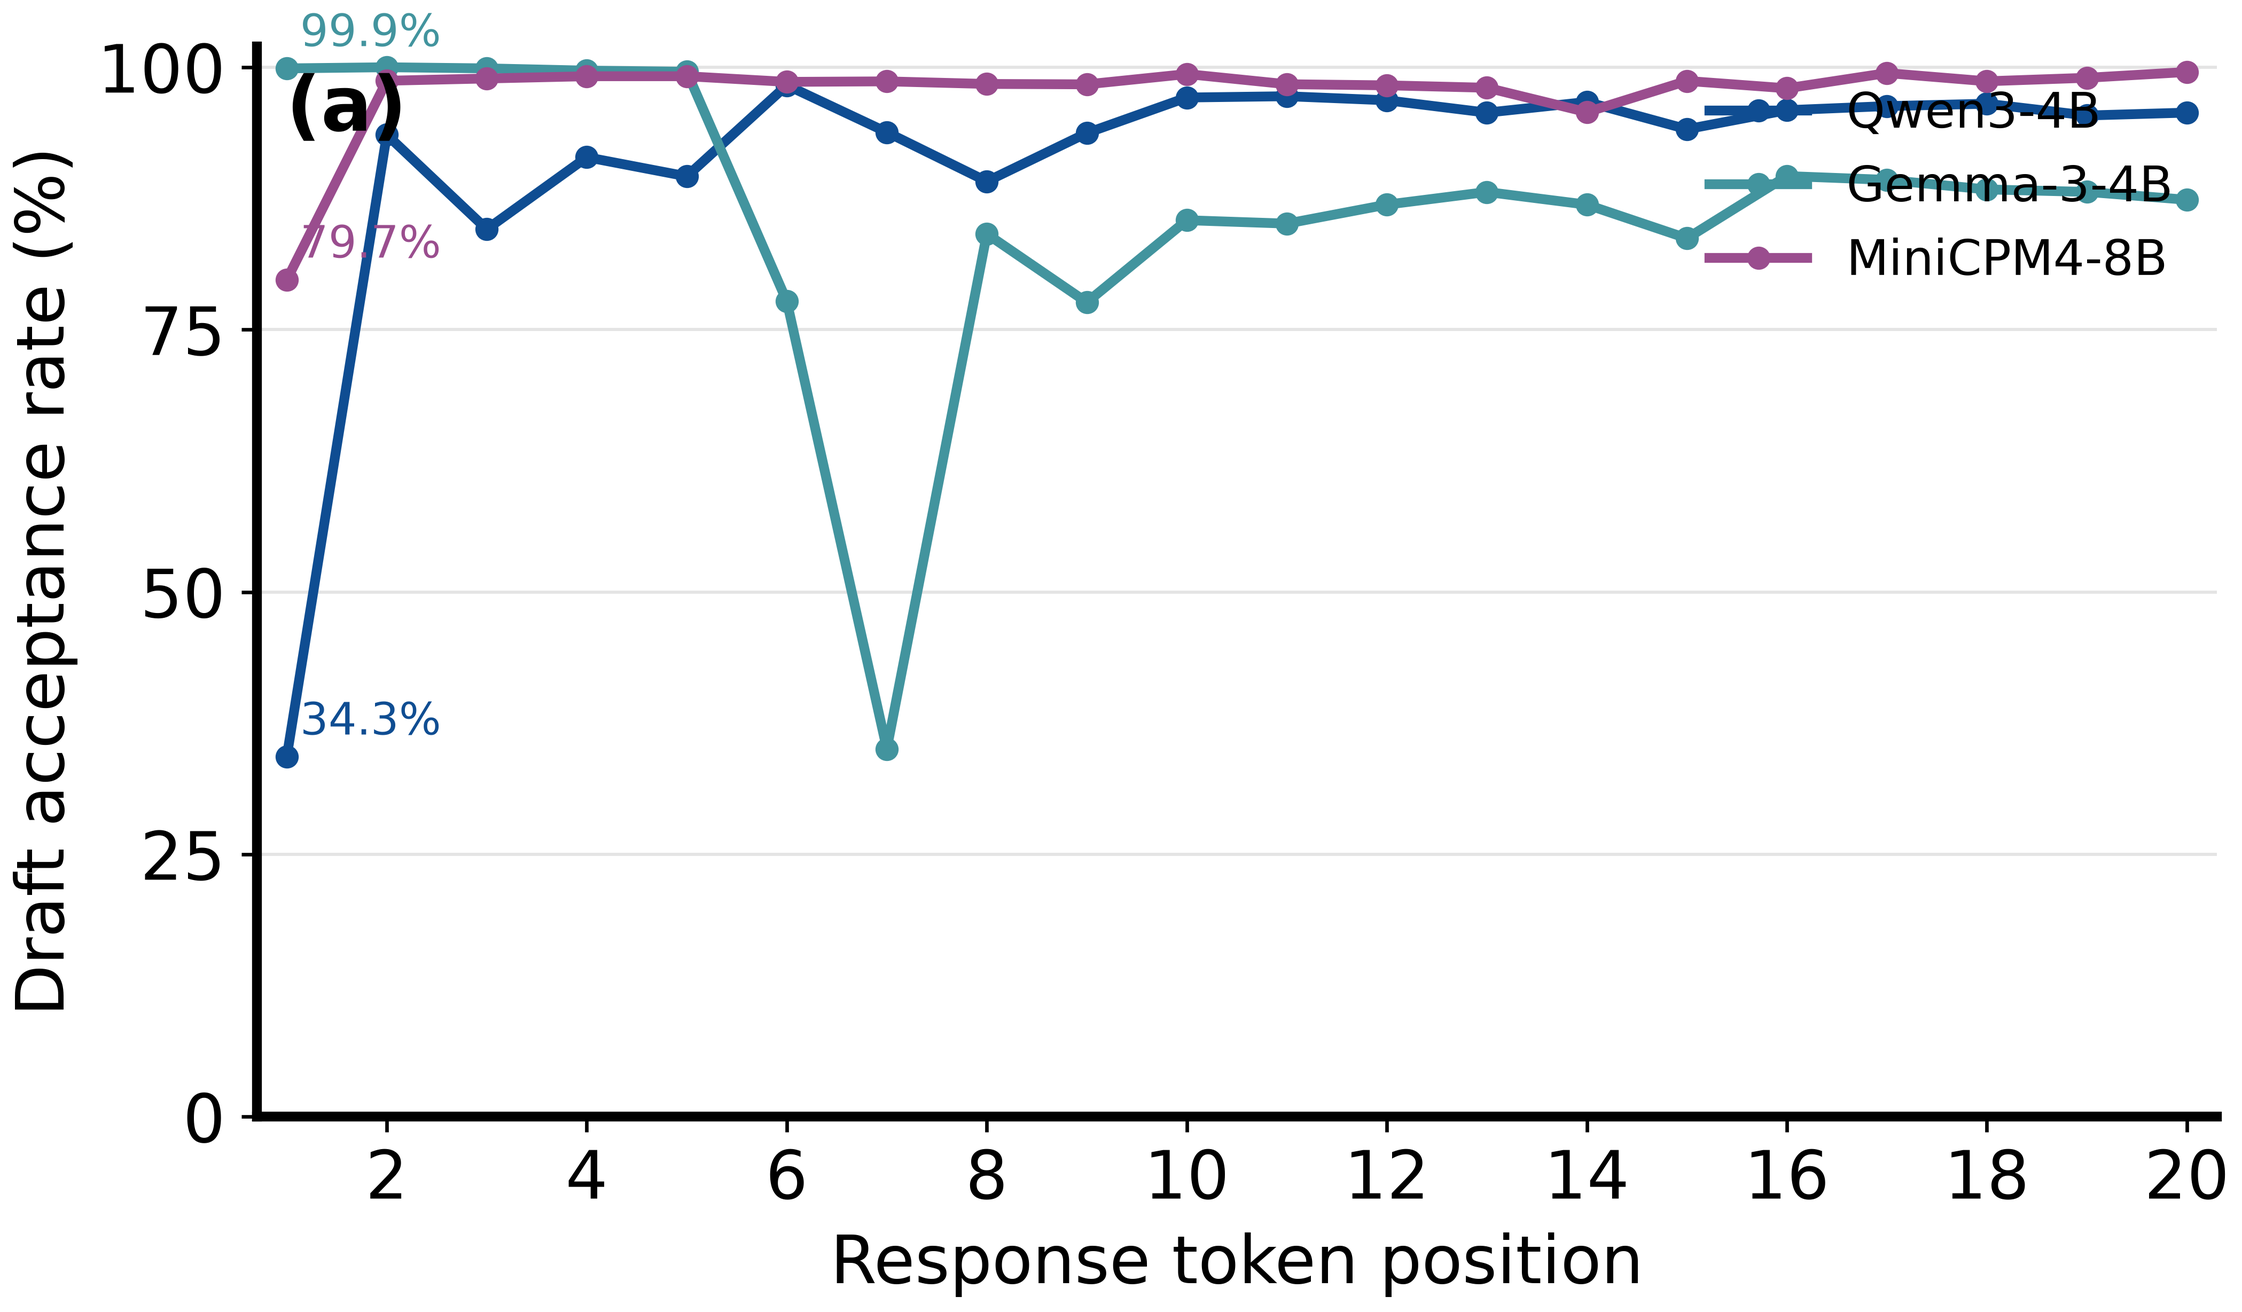
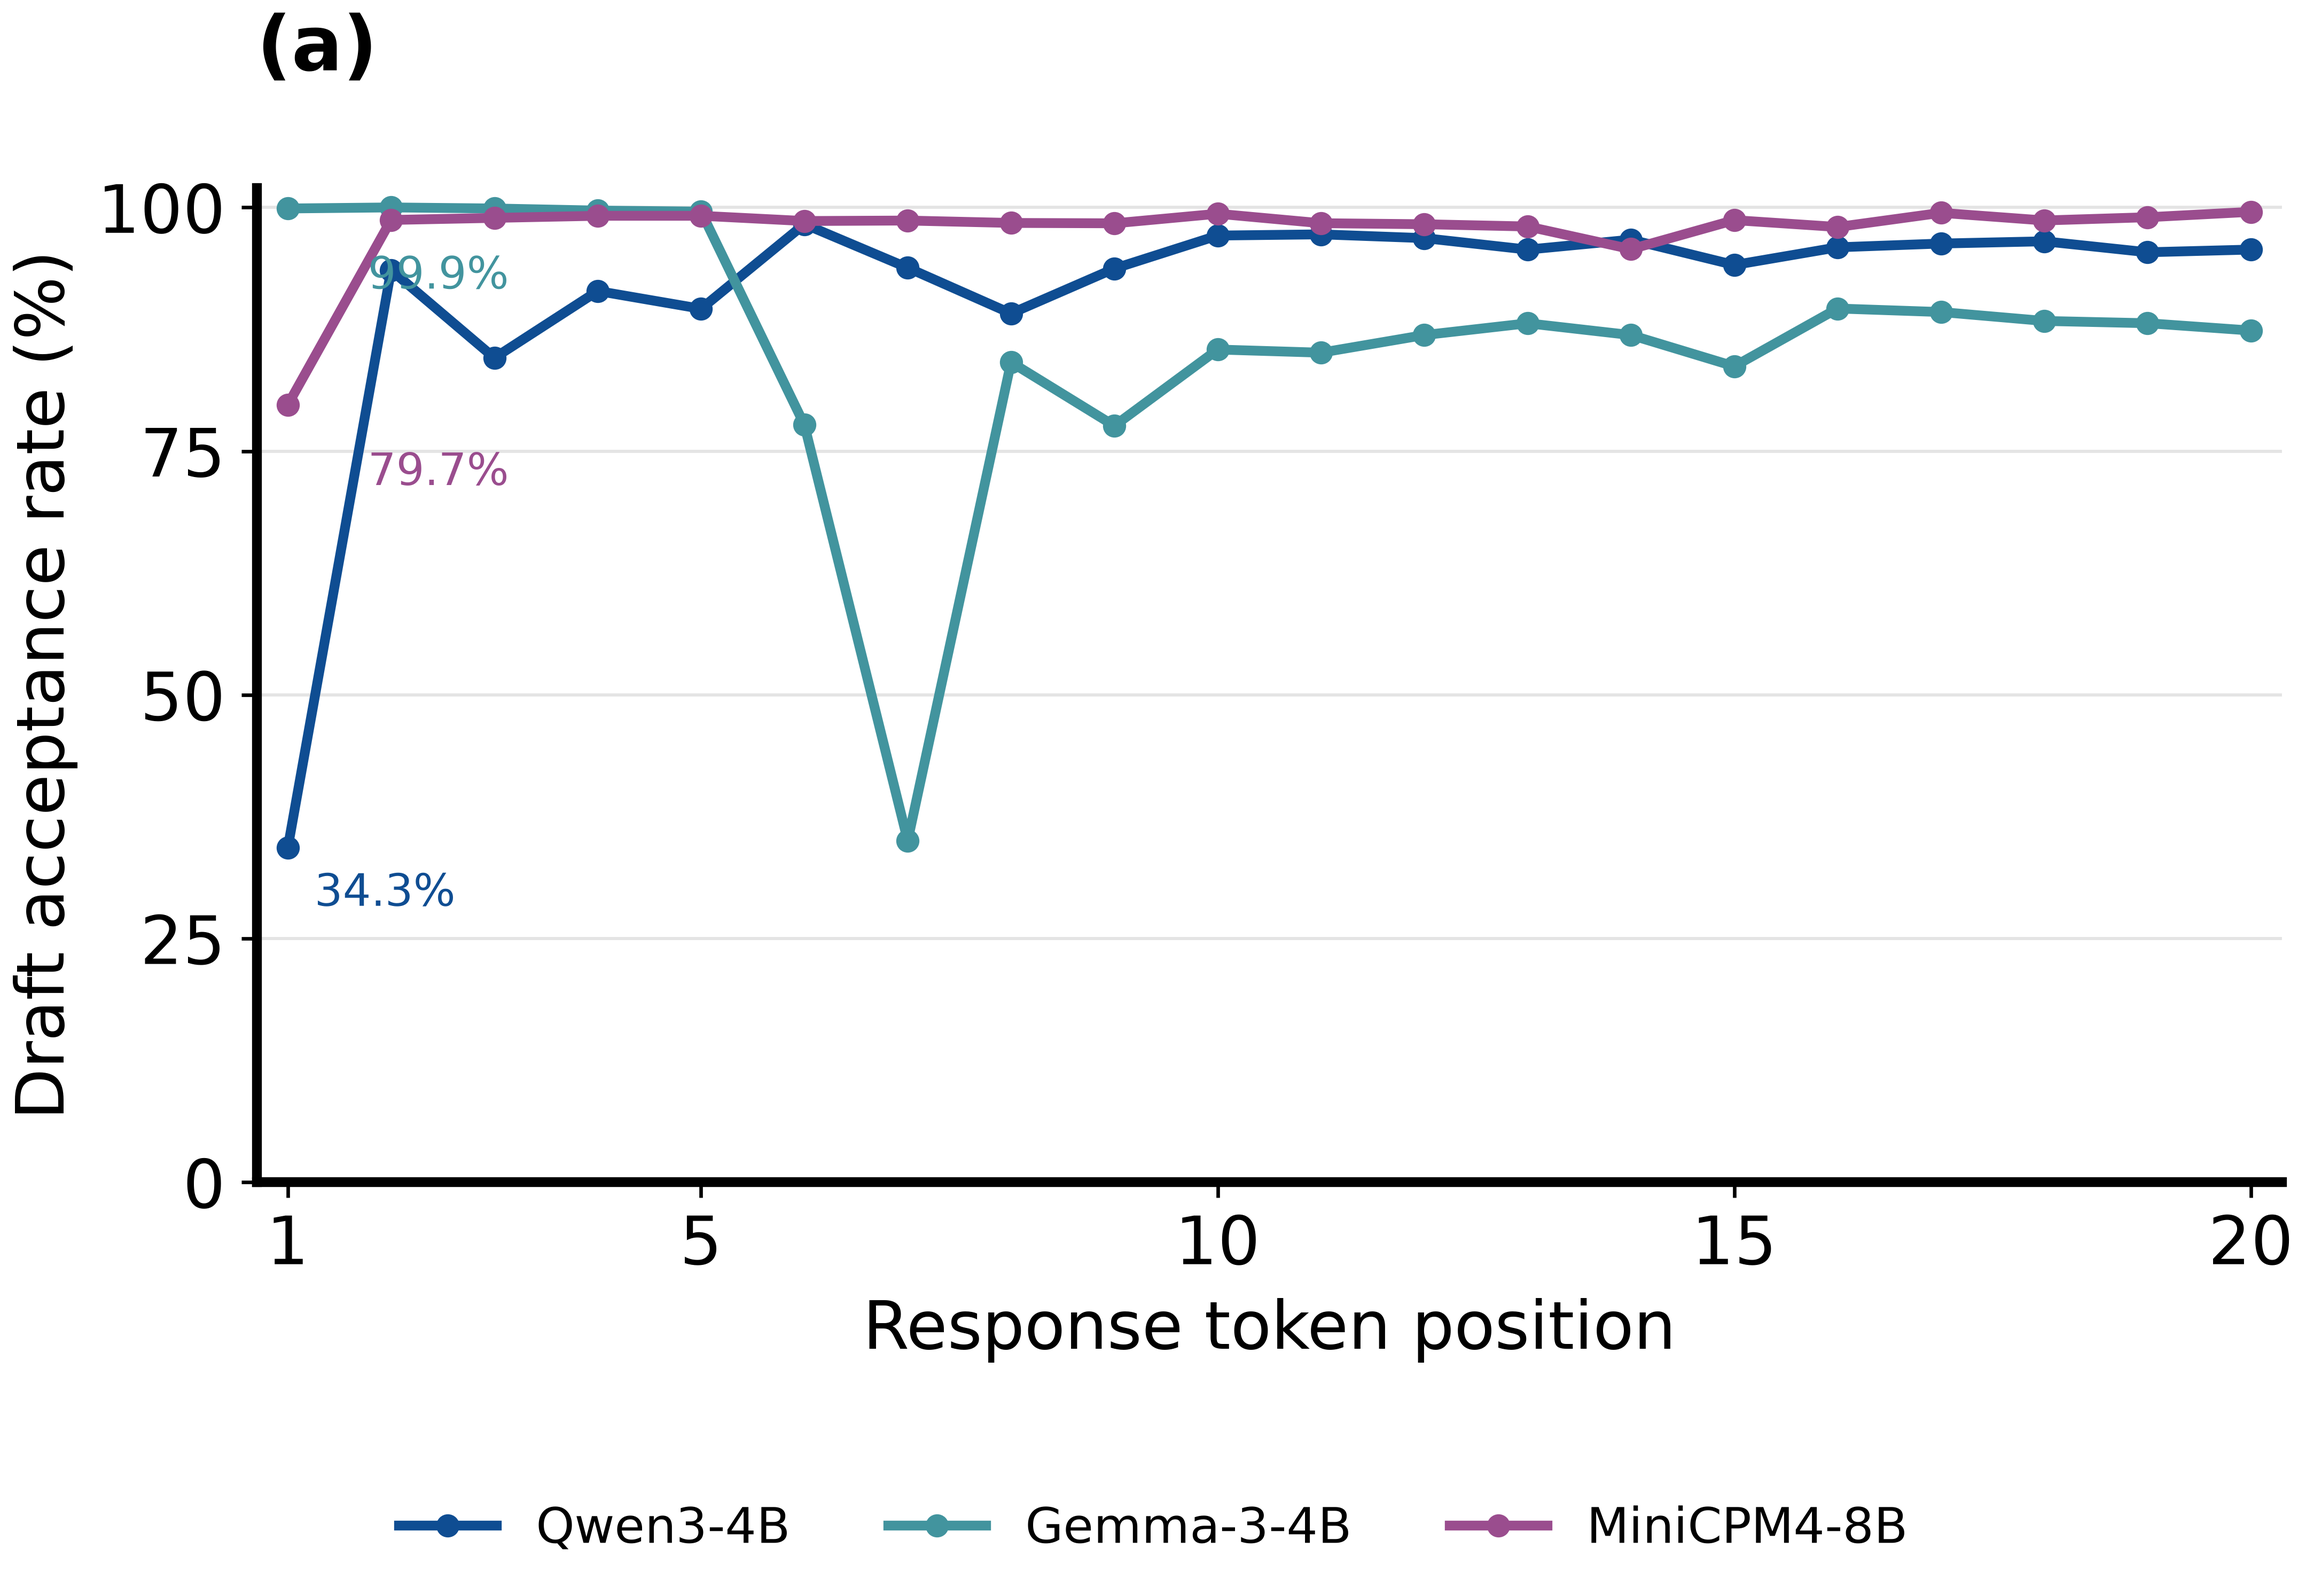
Improve Fig 2a publication layout

Changed region(s): [[0.0, 0.0, 0.9988, 0.9898], [0.2497, 0.928, 0.3433, 0.9898], [0.1873, 0.9589, 0.2185, 0.9898]]

diff --git a/scripts/plot_acceptance_by_position.py b/scripts/plot_acceptance_by_position.py
@@ -74,24 +74,32 @@ def main() -> None:
         "svg.fonttype": "none",
         "pdf.fonttype": 42,
     })
-    fig, ax = plt.subplots(figsize=(7.0, 4.1), constrained_layout=True)
+    fig, ax = plt.subplots(figsize=(7.2, 4.3), constrained_layout=True)
     positions = np.arange(1, args.nmax + 1)
+    first_offsets = {
+        "Qwen3_4B": (6, -13),
+        "Gemma_3_4B": (18, -18),
+        "MiniCPM4_8B": (18, -18),
+    }
     for model in MODELS:
         curve = curves[model]
         ax.plot(positions, 100 * np.asarray(curve["rates"]), color=COLORS[model],
                 marker="o", markersize=4.2, linewidth=2.2, label=curve["label"])
         ax.annotate(f"{100 * curve['rates'][0]:.1f}%", (positions[0], 100 * curve["rates"][0]),
-                    xytext=(3, 5), textcoords="offset points", color=COLORS[model], fontsize=10)
+                    xytext=first_offsets[model], textcoords="offset points",
+                    color=COLORS[model], fontsize=10)
     ax.set_xlim(0.7, args.nmax + 0.3)
     ax.set_ylim(0, 102)
-    ax.set_xticks(np.arange(2, args.nmax + 1, 2))
+    ax.set_xticks(sorted({1, args.nmax, *range(5, args.nmax + 1, 5)}))
     ax.set_yticks([0, 25, 50, 75, 100])
     ax.set_xlabel("Response token position")
     ax.set_ylabel("Draft acceptance rate (%)")
     ax.grid(axis="y", color="#CFCECE", linewidth=0.7, alpha=0.55)
     ax.set_axisbelow(True)
-    ax.legend(loc="upper right", ncols=1, fontsize=11)
-    ax.text(0.015, 0.975, "(a)", transform=ax.transAxes, ha="left", va="top",
+    handles, labels = ax.get_legend_handles_labels()
+    fig.legend(handles, labels, loc="lower center", bbox_to_anchor=(0.5, -0.16),
+               ncols=3, fontsize=11)
+    ax.text(0.0, 1.10, "(a)", transform=ax.transAxes, ha="left", va="bottom",
             fontsize=17, fontweight="bold")
     args.out.parent.mkdir(parents=True, exist_ok=True)
     for suffix in ("png", "pdf"):

diff --git a/docs/P0_PROGRESS.md b/docs/P0_PROGRESS.md
@@ -350,6 +350,11 @@ project venv despite the recorded base-interpreter path.
 - Publication-artifact audit: Fig. 1 PNG is 5757×4077 at 600 dpi and Fig. 2(a)
   is 4197×2457 at 600 dpi. Their PDFs are one-page vector outputs with embedded
   DejaVu Sans fonts, including bold and oblique variants.
+- Rebuilt the real Fig. 2(a) after a scientific-figure review. The panel marker
+  now sits outside the axes, the opening-position labels no longer collide with
+  each other or the axes, and the legend is below the x-axis title instead of
+  covering the Qwen/Gemma curves. The replacement PNG is 4317×2971 at 600 dpi;
+  the PDF remains one page with embedded DejaVu Sans fonts.
 - The current manuscript compiles twice with the real IEEEtran project at 13
   pages. There are no errors or overfull boxes; only two pre-existing Underfull
   paragraph warnings remain.
